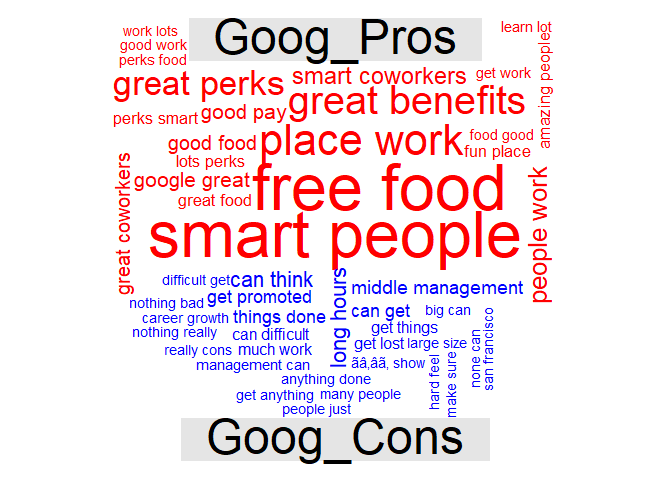
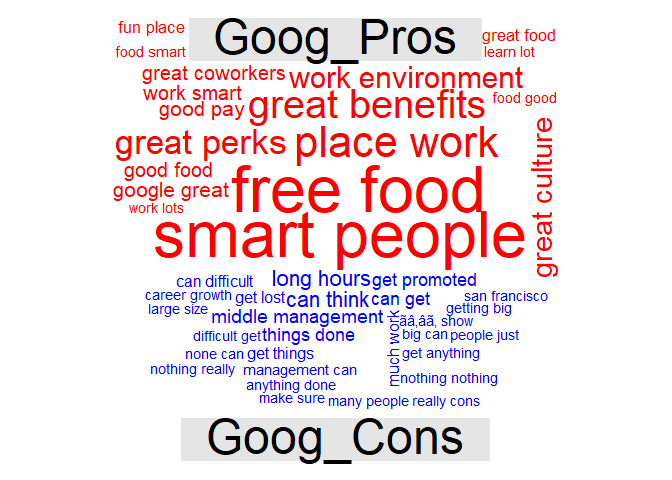
commit gethired

Changed region(s): [[0.1562, 0.0312, 0.8438, 0.875]]

diff --git a/Notes/DataCamp_-_Amazon-_Text_Mining.md b/Notes/DataCamp_-_Amazon-_Text_Mining.md
@@ -1,5 +1,7 @@
-R Notebook
+GetHired by Google
 ================
+Jae Wilson
+2017-11-02
 
 ``` r
 #install.packages("ggdendro")
@@ -164,13 +166,10 @@ wordcloud(
 ```
 
     ## Warning in wordcloud(freq = amzn_pro_freq, words = names(amzn_pro_freq), :
-    ## smart people could not be fit on page. It will not be plotted.
+    ## good pay could not be fit on page. It will not be plotted.
 
     ## Warning in wordcloud(freq = amzn_pro_freq, words = names(amzn_pro_freq), :
-    ## great benefits could not be fit on page. It will not be plotted.
-
-    ## Warning in wordcloud(freq = amzn_pro_freq, words = names(amzn_pro_freq), :
-    ## good benefits could not be fit on page. It will not be plotted.
+    ## work environment could not be fit on page. It will not be plotted.
 
 ![](DataCamp_-_Amazon-_Text_Mining_files/figure-markdown_github-ascii_identifiers/wordcloud-1.png)
 
@@ -349,24 +348,20 @@ comparison.cloud( goog_all_m,
     ## plotted.
 
     ## Warning in comparison.cloud(goog_all_m, colors = c("red", "blue"),
-    ## max.words = 100): work environment could not be fit on page. It will not be
-    ## plotted.
-
-    ## Warning in comparison.cloud(goog_all_m, colors = c("red", "blue"),
     ## max.words = 100): great place could not be fit on page. It will not be
     ## plotted.
 
     ## Warning in comparison.cloud(goog_all_m, colors = c("red", "blue"),
-    ## max.words = 100): great culture could not be fit on page. It will not be
+    ## max.words = 100): people work could not be fit on page. It will not be
+    ## plotted.
+
+    ## Warning in comparison.cloud(goog_all_m, colors = c("red", "blue"),
+    ## max.words = 100): smart coworkers could not be fit on page. It will not be
     ## plotted.
 
     ## Warning in comparison.cloud(goog_all_m, colors = c("red", "blue"),
     ## max.words = 100): working environment could not be fit on page. It will not
     ## be plotted.
-
-    ## Warning in comparison.cloud(goog_all_m, colors = c("red", "blue"),
-    ## max.words = 100): work smart could not be fit on page. It will not be
-    ## plotted.
 
     ## Warning in comparison.cloud(goog_all_m, colors = c("red", "blue"),
     ## max.words = 100): benefits great could not be fit on page. It will not be
@@ -382,6 +377,10 @@ comparison.cloud( goog_all_m,
 
     ## Warning in comparison.cloud(goog_all_m, colors = c("red", "blue"),
     ## max.words = 100): amazing benefits could not be fit on page. It will not be
+    ## plotted.
+
+    ## Warning in comparison.cloud(goog_all_m, colors = c("red", "blue"),
+    ## max.words = 100): amazing people could not be fit on page. It will not be
     ## plotted.
 
     ## Warning in comparison.cloud(goog_all_m, colors = c("red", "blue"),
@@ -409,11 +408,19 @@ comparison.cloud( goog_all_m,
     ## be plotted.
 
     ## Warning in comparison.cloud(goog_all_m, colors = c("red", "blue"),
+    ## max.words = 100): lots perks could not be fit on page. It will not be
+    ## plotted.
+
+    ## Warning in comparison.cloud(goog_all_m, colors = c("red", "blue"),
     ## max.words = 100): people good could not be fit on page. It will not be
     ## plotted.
 
     ## Warning in comparison.cloud(goog_all_m, colors = c("red", "blue"),
     ## max.words = 100): perks amazing could not be fit on page. It will not be
+    ## plotted.
+
+    ## Warning in comparison.cloud(goog_all_m, colors = c("red", "blue"),
+    ## max.words = 100): perks smart could not be fit on page. It will not be
     ## plotted.
 
     ## Warning in comparison.cloud(goog_all_m, colors = c("red", "blue"),
@@ -425,11 +432,15 @@ comparison.cloud( goog_all_m,
     ## plotted.
 
     ## Warning in comparison.cloud(goog_all_m, colors = c("red", "blue"),
-    ## max.words = 100): food smart could not be fit on page. It will not be
+    ## max.words = 100): get work could not be fit on page. It will not be
     ## plotted.
 
     ## Warning in comparison.cloud(goog_all_m, colors = c("red", "blue"),
     ## max.words = 100): good atmosphere could not be fit on page. It will not be
+    ## plotted.
+
+    ## Warning in comparison.cloud(goog_all_m, colors = c("red", "blue"),
+    ## max.words = 100): good work could not be fit on page. It will not be
     ## plotted.
 
     ## Warning in comparison.cloud(goog_all_m, colors = c("red", "blue"),
@@ -438,6 +449,10 @@ comparison.cloud( goog_all_m,
 
     ## Warning in comparison.cloud(goog_all_m, colors = c("red", "blue"),
     ## max.words = 100): opportunity work could not be fit on page. It will not be
+    ## plotted.
+
+    ## Warning in comparison.cloud(goog_all_m, colors = c("red", "blue"),
+    ## max.words = 100): perks food could not be fit on page. It will not be
     ## plotted.
 
     ## Warning in comparison.cloud(goog_all_m, colors = c("red", "blue"),
